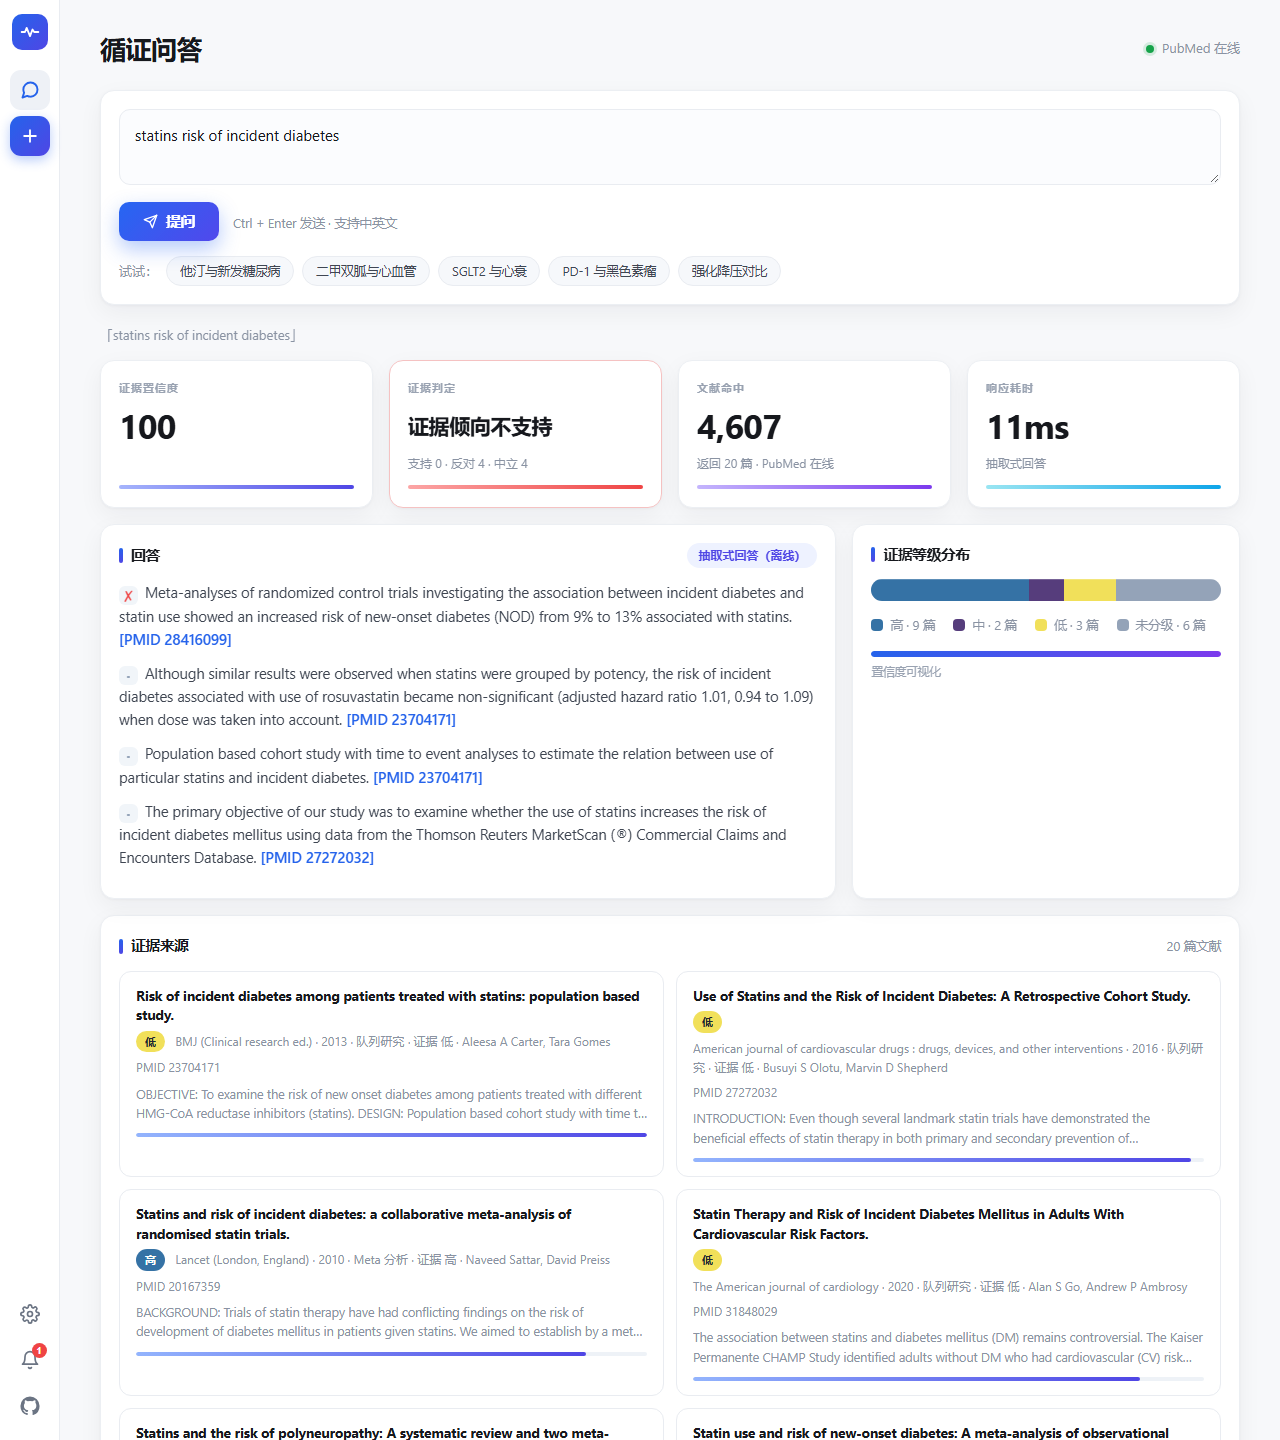
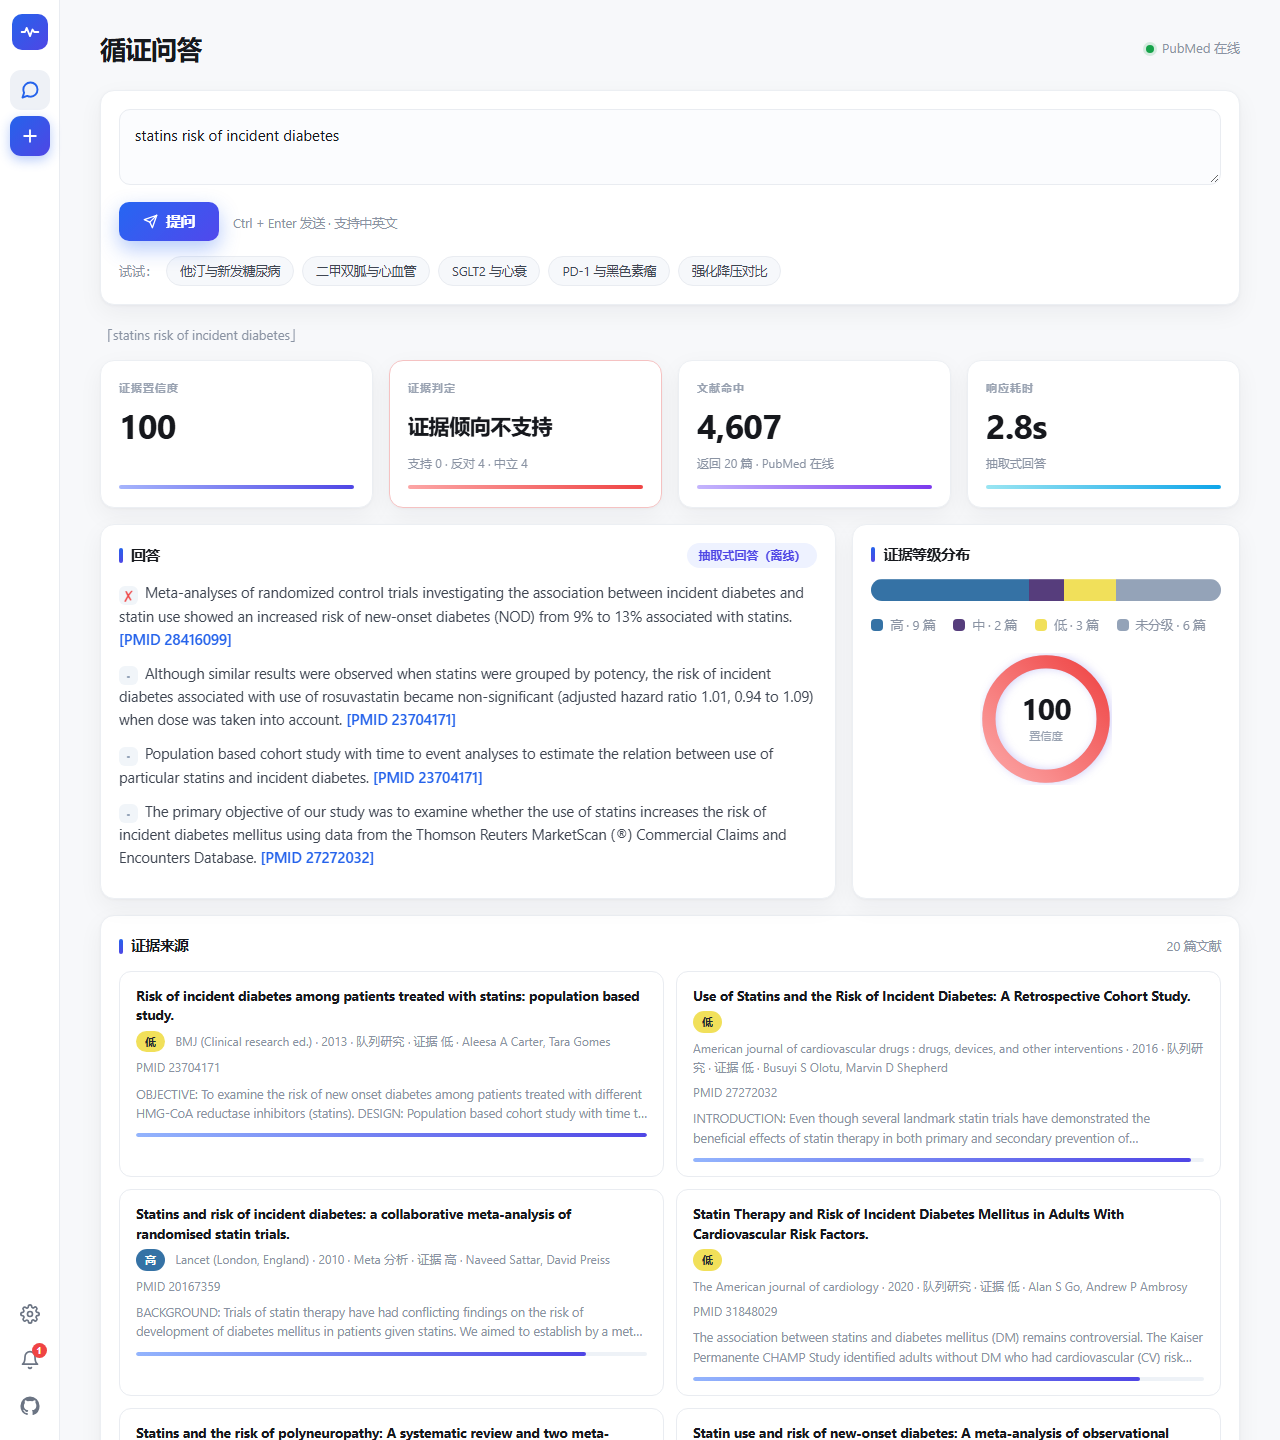
Replace thin confidence bar with Apple-Watch-style ring gauge

Changed region(s): [[0.6875, 0.4375, 0.9375, 0.5625], [0.75, 0.2812, 0.8438, 0.3125]]

diff --git a/static/app.js b/static/app.js
@@ -100,20 +100,23 @@ function renderAnswer(data) {
 }
 
 function renderStats(data, elapsedMs, ev) {
+  // 判定状态：support / against / conflict / neutral
+  let state = "neutral";
+  if (ev) {
+    if (ev.conflict) state = "conflict";
+    else if (ev.verdict === "证据倾向支持") state = "support";
+    else if (ev.verdict === "证据倾向不支持") state = "against";
+  }
+
   // 卡 1：证据置信度
   $("confidenceNum").textContent = ev ? ev.confidence : "–";
-  $("confidenceFill").style.width = (ev ? ev.confidence || 0 : 0) + "%";
 
   // 卡 2：证据判定
   $("verdictText").textContent = ev ? ev.verdict : "–";
   const statCards = document.querySelectorAll(".stat-card");
   const verdictCard = statCards[1];
   verdictCard.classList.remove("verdict-support", "verdict-against", "verdict-conflict");
-  if (ev) {
-    if (ev.conflict) verdictCard.classList.add("verdict-conflict");
-    else if (ev.verdict === "证据倾向支持") verdictCard.classList.add("verdict-support");
-    else if (ev.verdict === "证据倾向不支持") verdictCard.classList.add("verdict-against");
-  }
+  if (state !== "neutral") verdictCard.classList.add("verdict-" + state);
   $("verdictSub").textContent = ev && ev.conflict ? "文献结论存在对立，采信需谨慎" : "";
   $("polarityLine").textContent = ev
     ? `支持 ${ev.support_count} · 反对 ${ev.against_count} · 中立 ${ev.neutral_count}`
@@ -129,6 +132,29 @@ function renderStats(data, elapsedMs, ev) {
   $("timeSub").textContent = data.mode === "llm" ? "生成式回答" : "抽取式回答";
 
   $("resultMeta").textContent = `「${data.query}」`;
+
+  renderRing(ev ? ev.confidence : 0, state);
+}
+
+/* ---------- 置信度圆环 ---------- */
+const RING_R = 52;
+const RING_C = 2 * Math.PI * RING_R;
+const RING_COLORS = {
+  support: ["#86efac", "#16a34a"],
+  against: ["#fca5a5", "#ef4444"],
+  conflict: ["#fcd34d", "#f59e0b"],
+  neutral: ["#a5b4fc", "#4f46e5"],
+};
+
+function renderRing(confidence, state) {
+  const val = Math.max(0, Math.min(100, confidence || 0));
+  const ring = $("ringValue");
+  ring.style.strokeDasharray = RING_C;
+  ring.style.strokeDashoffset = RING_C * (1 - val / 100);
+  const [light, dark] = RING_COLORS[state] || RING_COLORS.neutral;
+  $("ringStop0").setAttribute("stop-color", light);
+  $("ringStop1").setAttribute("stop-color", dark);
+  $("ringNum").textContent = val;
 }
 
 function renderDist(dist) {

diff --git a/static/style.css b/static/style.css
@@ -294,7 +294,23 @@ textarea:focus {
   background: linear-gradient(90deg, #2563eb, #7c3aed);
   transition: width 0.6s cubic-bezier(0.22, 1, 0.36, 1);
 }
-.conf-bar-label { font-size: 11.5px; color: var(--label); margin: 6px 0 0; }
+
+/* ---------- 置信度圆环（Apple Watch 风格） ---------- */
+.ring-wrap { position: relative; width: 132px; height: 132px; margin: 18px auto 2px; }
+.ring { width: 132px; height: 132px; transform: rotate(-90deg); display: block; }
+.ring-track { fill: none; stroke: #eef2f7; stroke-width: 12; }
+.ring-value {
+  fill: none; stroke: url(#ringGrad); stroke-width: 12; stroke-linecap: round;
+  transition: stroke-dashoffset 0.9s cubic-bezier(0.22, 1, 0.36, 1);
+  filter: drop-shadow(0 2px 4px rgba(79, 70, 229, 0.25));
+}
+.ring-center {
+  position: absolute; inset: 0;
+  display: flex; flex-direction: column; align-items: center; justify-content: center;
+  pointer-events: none;
+}
+.ring-num { font-size: 30px; font-weight: 700; color: var(--ink); line-height: 1; letter-spacing: -0.02em; }
+.ring-label { font-size: 10.5px; color: var(--label); margin-top: 5px; text-transform: uppercase; letter-spacing: 0.08em; }
 
 /* ---------- 文献列表（两列网格） ---------- */
 .doc-grid {

diff --git a/static/index.html b/static/index.html
@@ -117,8 +117,22 @@
             <div class="card-head"><h2>证据等级分布</h2></div>
             <div class="dist-bar" id="distBar"></div>
             <div class="dist-legend" id="distLegend"></div>
-            <div class="confidence-bar"><div class="confidence-fill" id="confidenceFill"></div></div>
-            <p class="conf-bar-label">置信度可视化</p>
+            <div class="ring-wrap">
+              <svg class="ring" viewBox="0 0 120 120">
+                <defs>
+                  <linearGradient id="ringGrad" x1="0%" y1="0%" x2="100%" y2="100%">
+                    <stop id="ringStop0" offset="0%" stop-color="#a5b4fc"/>
+                    <stop id="ringStop1" offset="100%" stop-color="#4f46e5"/>
+                  </linearGradient>
+                </defs>
+                <circle class="ring-track" cx="60" cy="60" r="52"/>
+                <circle class="ring-value" id="ringValue" cx="60" cy="60" r="52"/>
+              </svg>
+              <div class="ring-center">
+                <span class="ring-num" id="ringNum">–</span>
+                <span class="ring-label">置信度</span>
+              </div>
+            </div>
           </div>
         </div>
 
